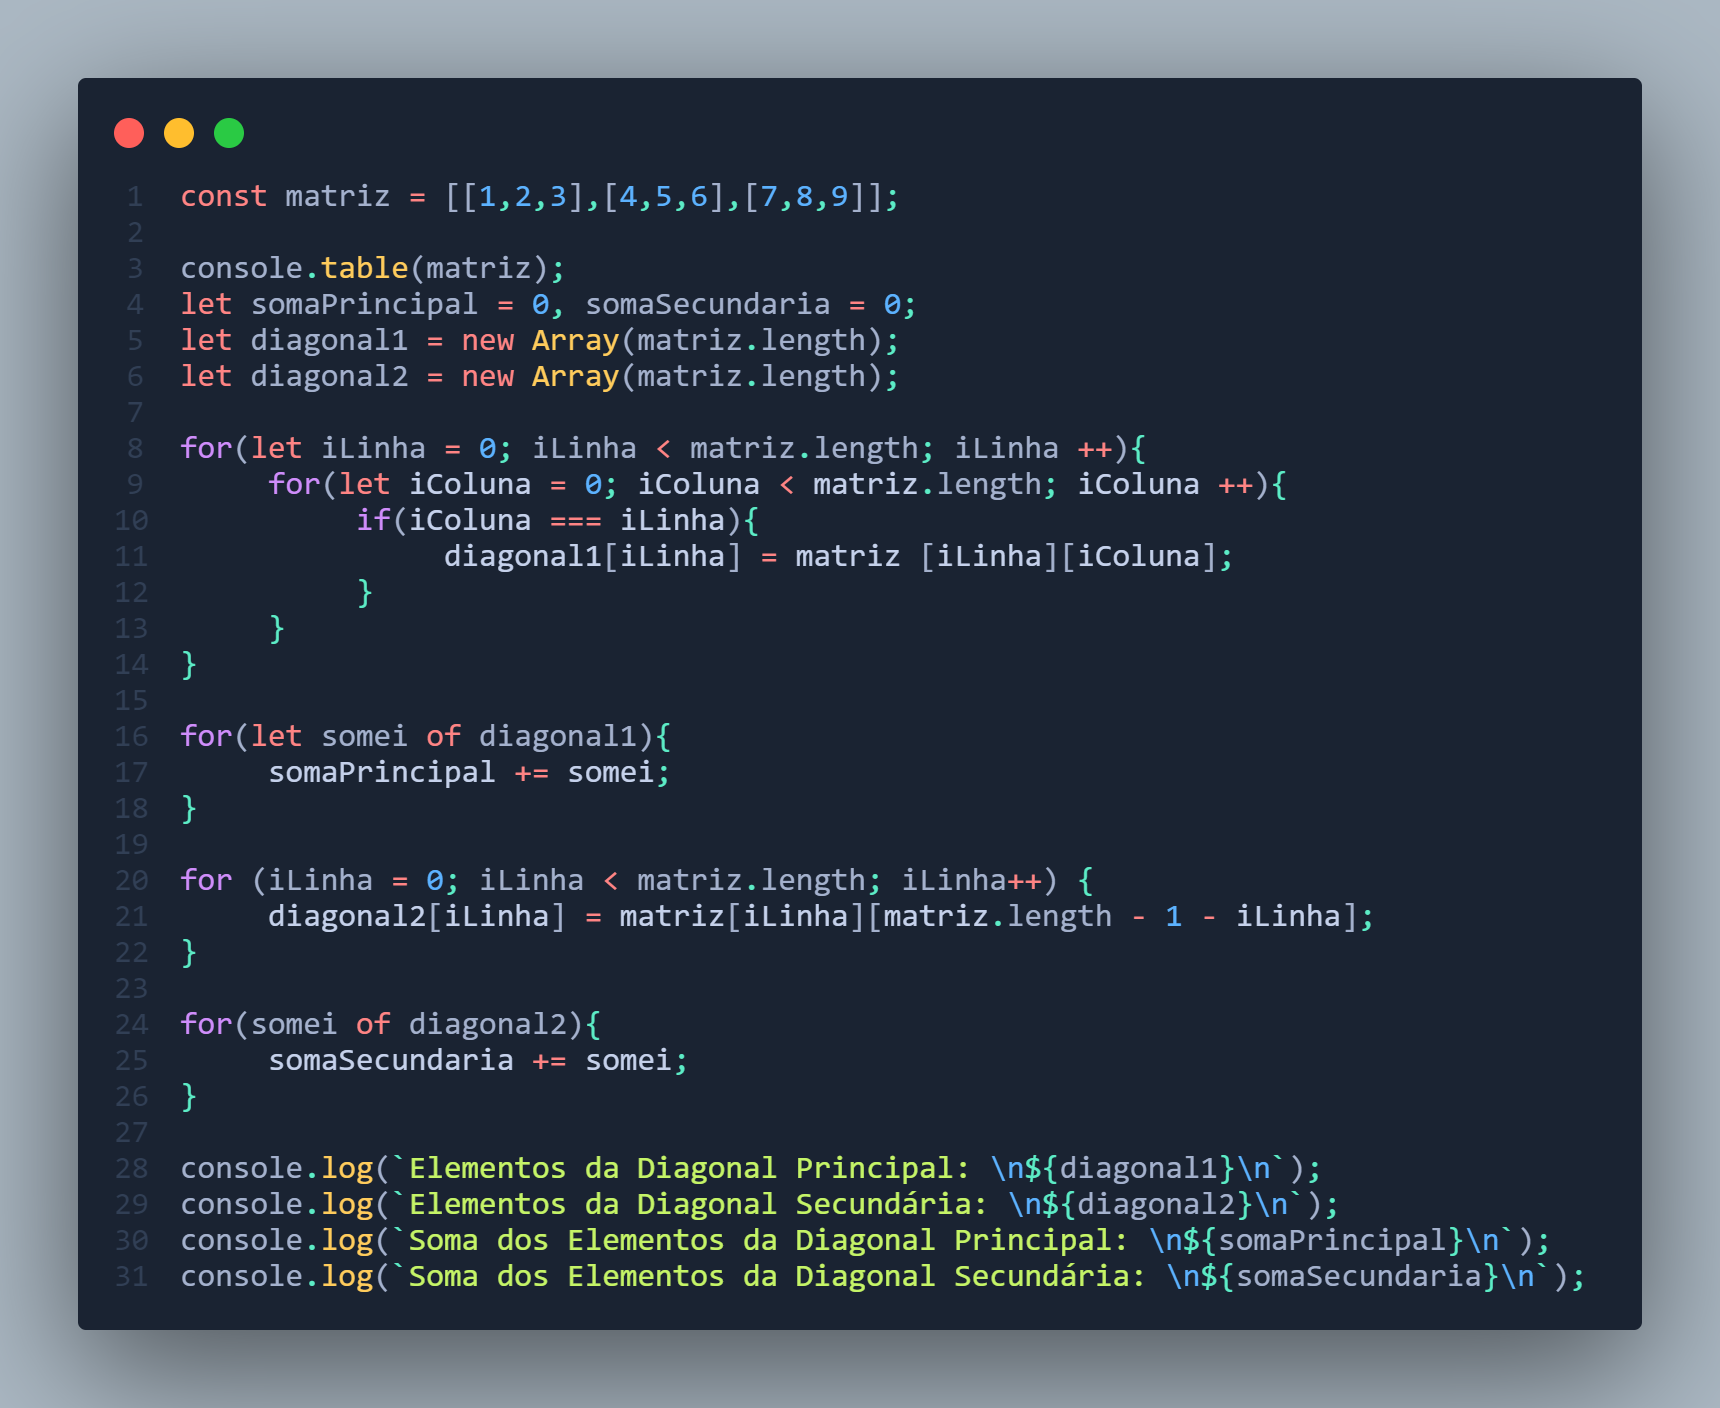
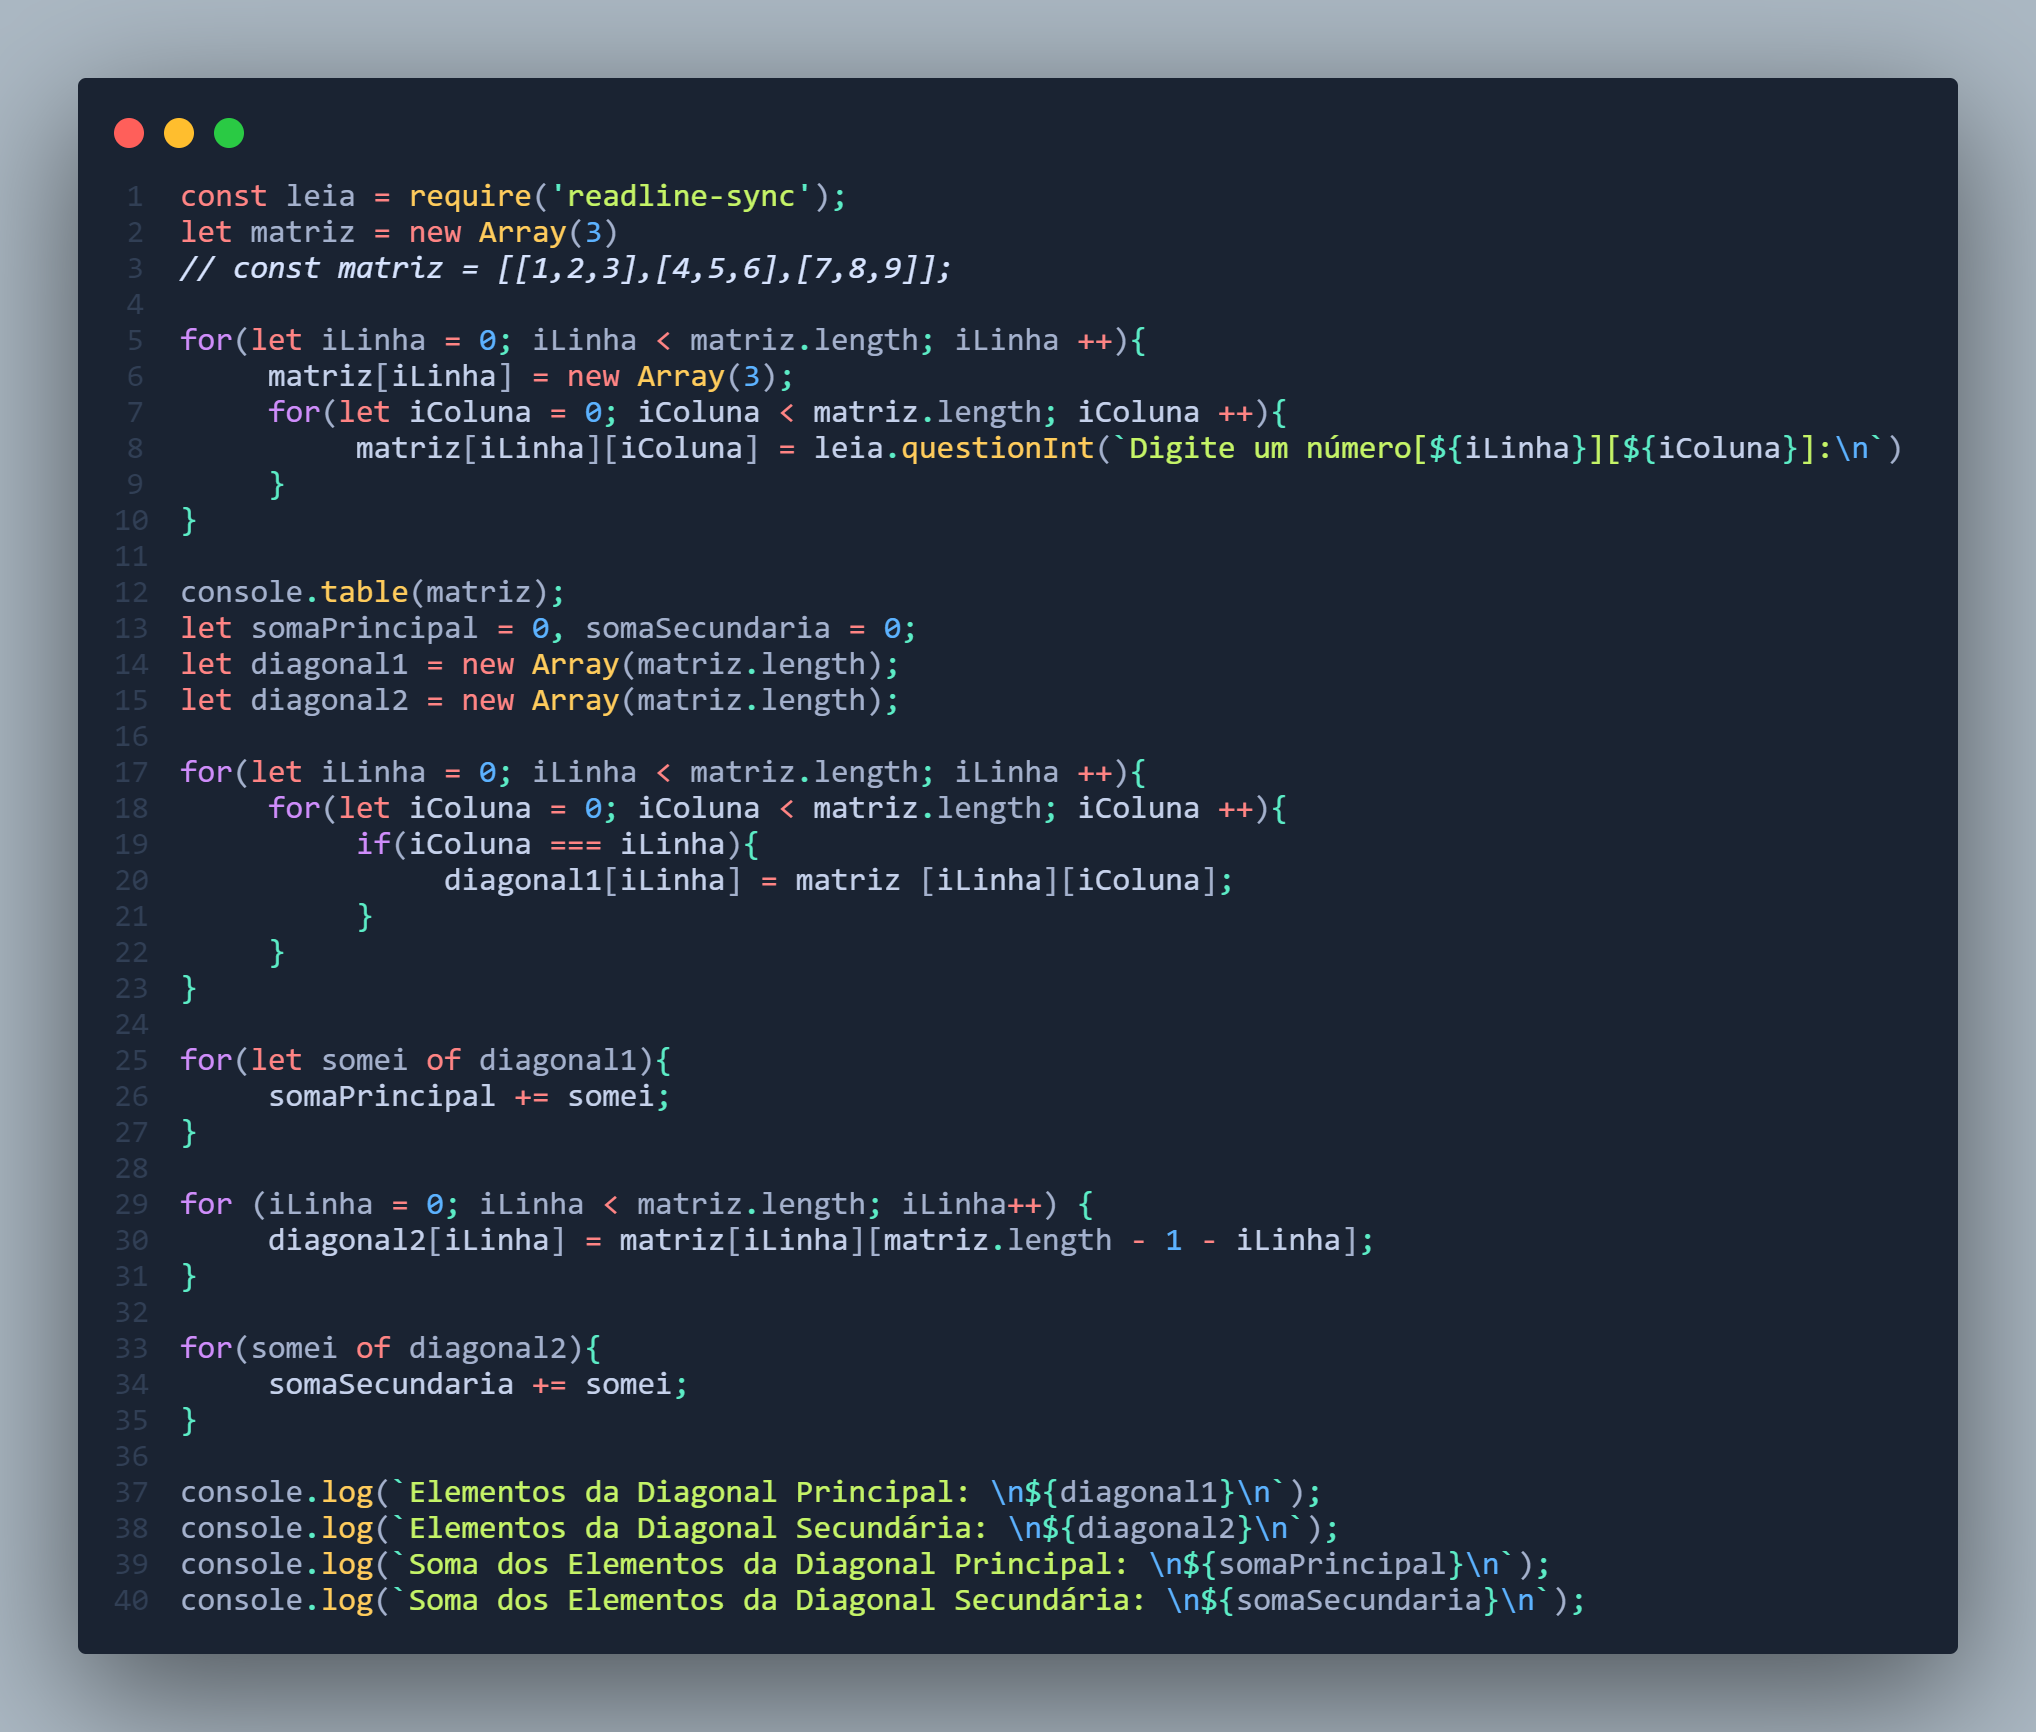
Adicionei a resolução de matriz02, img da mesma e correção de leia da matriz01

Changed region(s): [[0.0308, 0.0312, 0.986, 0.9688], [0.7395, 0.625, 0.8012, 0.6562], [0.6163, 0.6875, 0.6471, 0.7188]]

diff --git a/matriz02.js b/matriz02.js
@@ -1,0 +1,48 @@
+const leia = require('readline-sync');
+// todos os códigos comentados foram usado para teste.
+let matriz = new Array(10).fill(0);
+
+// let arrTeste = [4.0,5.0,7.0,3.0,2.5,6.5,4.7,8.0,10.0,8.5,9.5,8.0,9.0,6.5,7.6,8.2,5.0,5.0,5.0,6.3,7.0,8.0,9.0,8.5,5.5,3.5,2.5,1.0,8.0,9.0,10.0,9.5,5.6,5.8,6.5,7.0,7.5,8.5,9.5,10.0];
+// let arr = 0;
+
+for(let iLinha = 0; iLinha < matriz.length; iLinha++){
+     matriz[iLinha] = Array(4);//.fill(0);
+}
+
+for(iLinha = 0; iLinha < matriz.length; iLinha ++){
+     for(let iColuna = 0; iColuna < 4; iColuna ++){
+          matriz[iLinha][iColuna] = leia.questionInt(`Digite a ${iColuna}º do participante[${iLinha+1}]:\n`);
+          //arrTeste[arr];
+          //arr++;
+     }
+}
+
+// let matriz = [[4.0,5.0,7.0,3.0],
+// [2.5,6.5,4.7,8.0],
+// [10.0,8.5,9.5,8.0],
+// [9.0,6.5,7.6,8.2],
+// [5.0,5.0,5.0,6.3],
+// [7.0,8.0,9.0,8.5],
+// [5.5,3.5,2.5,1.0],
+// [8.0,9.0,10.0,9.5],
+// [5.6,5.8,6.5,7.0],
+// [7.5,8.5,9.5,10.0]];
+
+console.table(matriz);
+
+let vetorMedia = new Array(10);
+let soma = 0;
+let media = 0;
+
+for(let iLinha = 0; iLinha < matriz.length; iLinha ++){
+     for(let iColuna = 0; iColuna < matriz[iLinha].length; iColuna ++){
+          soma += matriz[iLinha][iColuna];
+     }
+
+     media = (soma/matriz[iLinha].length).toFixed(1);
+     vetorMedia[iLinha] = media;
+     media = 0;
+     soma = 0;
+}
+
+console.log(`Vetor de média de alunos: ${vetorMedia}`);

diff --git a/matriz01.js b/matriz01.js
@@ -1,4 +1,13 @@
-const matriz = [[1,2,3],[4,5,6],[7,8,9]];
+const leia = require('readline-sync');
+let matriz = new Array(3)
+// const matriz = [[1,2,3],[4,5,6],[7,8,9]];
+
+for(let iLinha = 0; iLinha < matriz.length; iLinha ++){
+     matriz[iLinha] = new Array(3);
+     for(let iColuna = 0; iColuna < matriz.length; iColuna ++){
+          matriz[iLinha][iColuna] = leia.questionInt(`Digite um número[${iLinha}][${iColuna}]:\n`)
+     }
+}
 
 console.table(matriz);
 let somaPrincipal = 0, somaSecundaria = 0;
